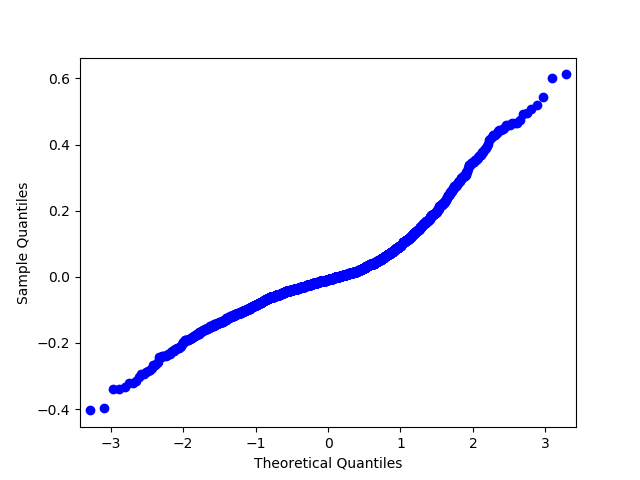
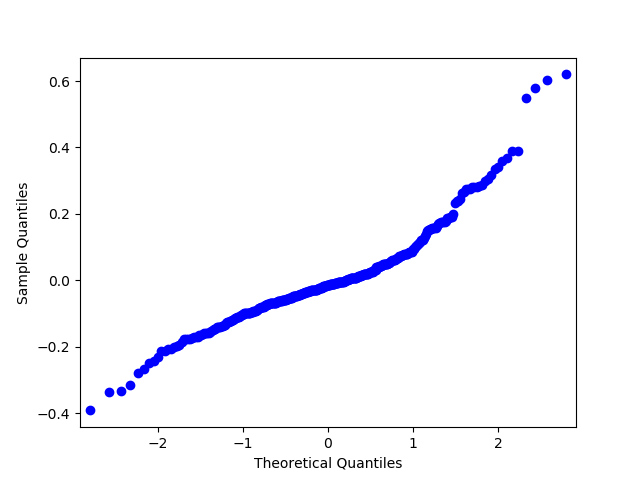
add stacked learner

diff --git a/Scripts/StackedLearner.py b/Scripts/StackedLearner.py
@@ -1,0 +1,73 @@
+import numpy as np
+import pandas as pd
+import seaborn as sns
+import matplotlib.pyplot as plt
+from matplotlib.colors import ListedColormap
+import statsmodels.api as sm
+
+from sklearn.preprocessing import MinMaxScaler
+from sklearn.tree import DecisionTreeRegressor
+from sklearn.neighbors import KNeighborsRegressor
+from sklearn.svm import SVR
+from sklearn.naive_bayes import GaussianNB
+from sklearn.ensemble import AdaBoostRegressor
+from sklearn.cluster import KMeans
+from sklearn.ensemble import StackingRegressor
+from sklearn.ensemble import RandomForestRegressor
+from sklearn.linear_model import BayesianRidge
+
+## Load Data:
+data = pd.read_csv("../Data/communities_rmMissing.csv")
+X = data[[x for x in data.columns if x not in ["state", "communityname", "ViolentCrimesPerPop", "fold"]]]
+Y = data["ViolentCrimesPerPop"]
+N = data.shape[0]
+
+N_FOLDS = 5
+#shuffle_idx = np.random.permutation(Y.size)
+#X = X.iloc[shuffle_idx]
+#Y = Y[shuffle_idx]
+X = np.array(X)
+Y = np.array(Y)
+
+## hold out 20 percent of data for testing accuracy
+train_prct = 0.8
+n_train = int(round(X.shape[0]*train_prct))
+
+## Models
+knn = KNeighborsRegressor(n_neighbors=5)
+svm = SVR()
+rf = RandomForestRegressor(n_estimators=100, criterion='mse', random_state=0)
+decision_tree = DecisionTreeRegressor(max_depth=3, max_features=2)
+bayesian_ridge = BayesianRidge()
+
+base_models = [("KNN", knn), ("SVM", svm), ("DecisionTree", decision_tree), ("RandomForest", rf)]
+
+## Fit
+stacked_learner = StackingRegressor(base_models, cv=N_FOLDS)
+stacked_learner = stacked_learner.fit(X[:n_train], Y[:n_train])
+y_pred_test = stacked_learner.predict(X[n_train:])
+residuals_stacked = Y[n_train:] - y_pred_test
+
+adaboost = AdaBoostRegressor(n_estimators=100, loss="square", random_state=0)
+adaboost = adaboost.fit(X[:n_train], Y[:n_train])
+y_pred_test = adaboost.predict(X[n_train:])
+residuals_adaboost = Y[n_train:] - y_pred_test
+
+## Plot
+plt.plot(residuals_stacked, '.')
+plt.axhline(y=0, color="red")
+plt.title("Stacked Learners\nMSE = " + str(np.mean(residuals_stacked ** 2)))
+plt.savefig("../Plots/StackedLearner_residuals_scatter.png")
+plt.close()
+plt.plot(residuals_adaboost, '.')
+plt.axhline(y=0, color="red")
+plt.title("Adaboost\nMSE = " + str(np.mean(residuals_adaboost ** 2)))
+plt.savefig("../Plots/Adaboost_residuals_scatter.png")
+plt.close()
+
+fig = sm.qqplot(residuals_stacked)
+plt.savefig("../Plots/StackedLearner_residuals_qqplot.png")
+plt.close()
+fig = sm.qqplot(residuals_adaboost)
+plt.savefig("../Plots/Adaboost_residuals_qqplot.png")
+plt.close()

diff --git a/Scripts/Kmeans_KNN.py b/Scripts/Kmeans_KNN.py
@@ -17,6 +17,8 @@ from sklearn.cluster import KMeans
 data = pd.read_csv("../Data/communities_rmMissing.csv")
 X = data[[x for x in data.columns if x not in ["state", "communityname", "ViolentCrimesPerPop", "fold"]]]
 Y = data["ViolentCrimesPerPop"]
+train_prct = 0.8
+n_train = int(round(X.shape[0]*train_prct))
 
 ## Models
 knn = KNeighborsRegressor(n_neighbors = 5)
@@ -24,8 +26,8 @@ kmeans = KMeans(n_clusters=2, random_state=0)
 
 ## Fit
 model_kmeans = kmeans.fit(X)
-model_knn = knn.fit(X, Y)
-residuals = Y - model_knn.predict(X)
+model_knn = knn.fit(X.iloc[:n_train], Y[:n_train])
+residuals = Y[n_train:] - model_knn.predict(X.iloc[n_train:])
 
 ## Plot
 hist_x = []
